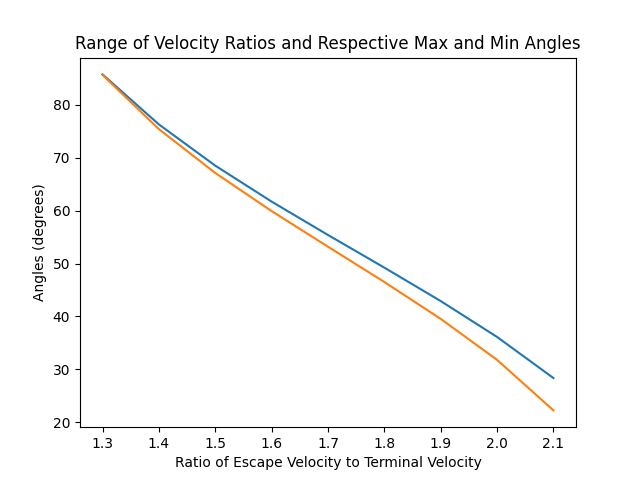
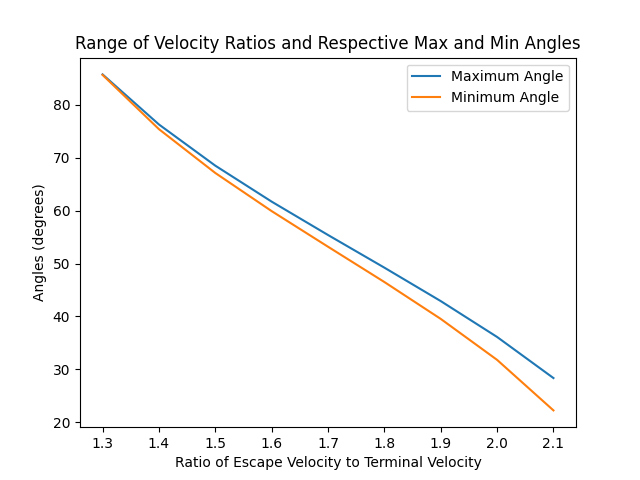
added legends to plots

Changed region(s): [[0.625, 0.125, 0.875, 0.2188]]

diff --git a/src/python_package/range.py b/src/python_package/range.py
@@ -71,6 +71,7 @@ def main():
     plt.title("Range of Altitudes and Respective Max and Min Angles")
     plt.xlabel('Alpha (m)')
     plt.ylabel('Angles (degrees)')
+    plt.legend()
     plt.savefig('../../figures/plot_1.png')
     plt.show()
 
@@ -90,6 +91,7 @@ def main():
     plt.title("Range of Velocity Ratios and Respective Max and Min Angles")
     plt.xlabel('Ratio of Escape Velocity to Terminal Velocity')
     plt.ylabel('Angles (degrees)')
+    plt.legend()
     plt.savefig('../../figures/plot_2.png')
     plt.show()
 
